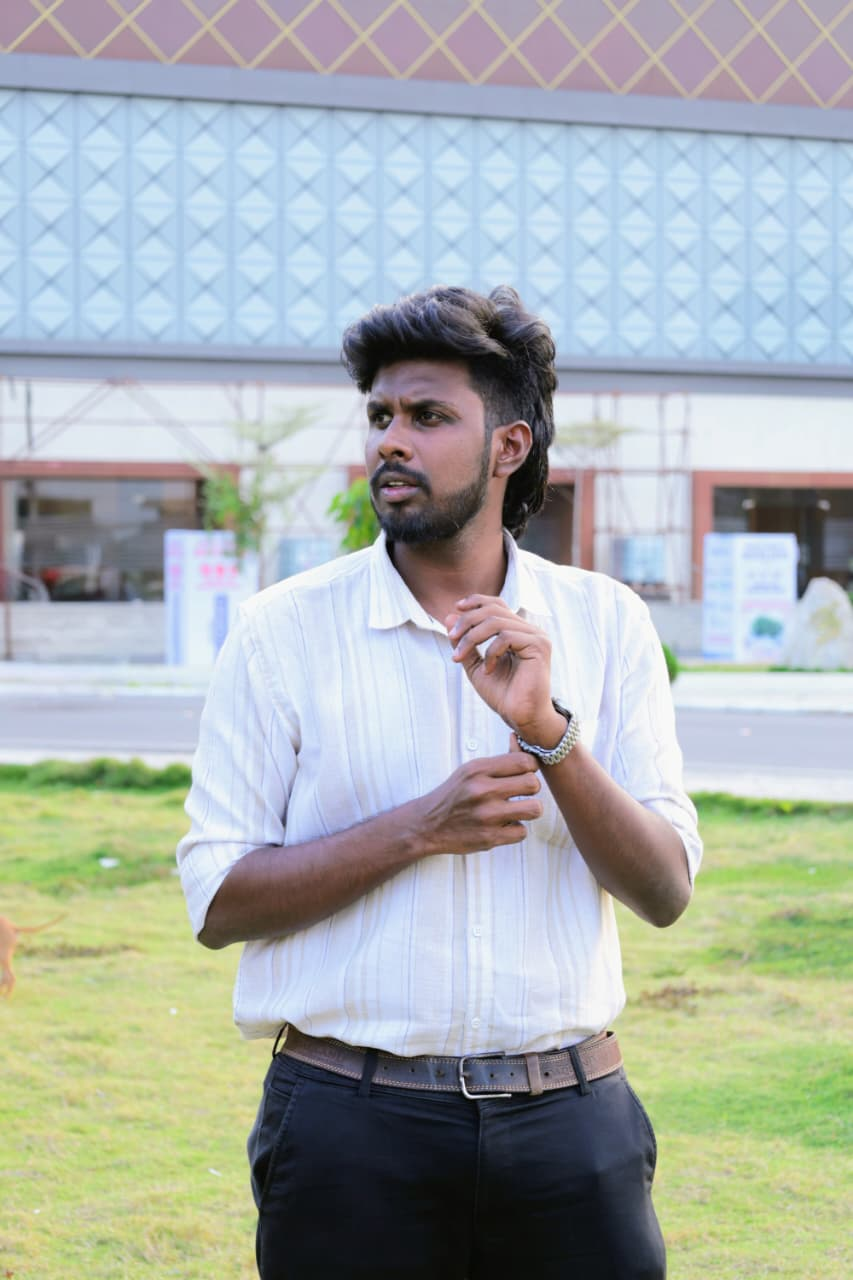
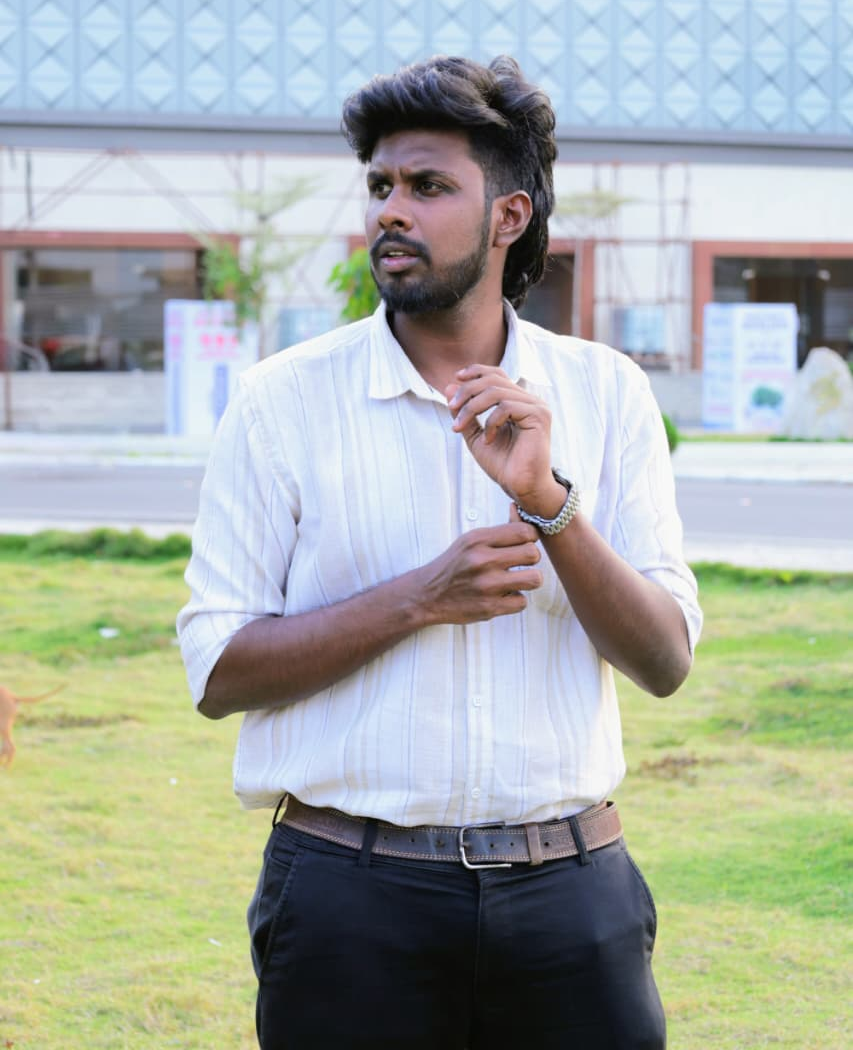
changes

diff --git a/pages/HomePage.jsx b/pages/HomePage.jsx
@@ -36,6 +36,16 @@ export default function HomePage() {
                 Instagram
               </a>
             </div>
+
+            <div className="contact-card reveal delay-1" style={{ marginTop: "1.5rem" }}>
+              <div className="contact-icon">⚡</div>
+              <div>
+                <div className="contact-label">Focus</div>
+                <div className="contact-value">
+                  Account handling, content creation, campaign planning, and storytelling execution.
+                </div>
+              </div>
+            </div>
           </div>
 
           <aside className="hero-right reveal delay-1 home-3d-zone">
@@ -129,7 +139,7 @@ export default function HomePage() {
 
       <div className="divider"></div>
 
-      <section id="experience">
+      {/* <section id="experience">
         <div className="container">
           <Mesh3D hueOffset={280} size="small" position="bottom-left" />
           <div className="section-head reveal">
@@ -165,8 +175,7 @@ export default function HomePage() {
             </article>
           </div>
         </div>
-      </section>
-
+      </section> */}
       <div className="divider"></div>
 
       <section id="skills">
@@ -252,6 +261,9 @@ export default function HomePage() {
 
           <div className="brand-grid">
             <article className="brand-card highlight reveal">
+              <div className="brand-logo-wrap">
+                <img src="/assets/brands/royal.png" alt="Royal Enfield logo" className="brand-logo" loading="lazy" decoding="async" />
+              </div>
               <h3>Royal Enfield</h3>
               <div className="chips">
                 <span className="chip">Account Handling</span>
@@ -261,6 +273,9 @@ export default function HomePage() {
             </article>
 
             <article className="brand-card reveal delay-1">
+              <div className="brand-logo-wrap">
+                <img src="/assets/brands/Madras Coffee House.png" alt="Madras Coffee House logo" className="brand-logo" loading="lazy" decoding="async" />
+              </div>
               <h3>Madras Coffee House</h3>
               <div className="chips">
                 <span className="chip">Account &amp; Client Management</span>
@@ -270,6 +285,9 @@ export default function HomePage() {
             </article>
 
             <article className="brand-card reveal delay-2">
+              <div className="brand-logo-wrap">
+                <img src="/assets/brands/gem.png" alt="Gem Hospital logo" className="brand-logo" loading="lazy" decoding="async" />
+              </div>
               <h3>Gem Hospital</h3>
               <div className="chips">
                 <span className="chip">Account &amp; Client Management</span>
@@ -279,6 +297,9 @@ export default function HomePage() {
             </article>
 
             <article className="brand-card reveal">
+              <div className="brand-logo-wrap">
+                <img src="/assets/brands/surya.png" alt="Sooriya Hospital logo" className="brand-logo" loading="lazy" decoding="async" />
+              </div>
               <h3>Sooriya Hospital</h3>
               <div className="chips">
                 <span className="chip">Content Planning</span>
@@ -287,6 +308,9 @@ export default function HomePage() {
             </article>
 
             <article className="brand-card reveal delay-1">
+              <div className="brand-logo-wrap">
+                <img src="/assets/brands/healing.png" alt="Healing Earth logo" className="brand-logo" loading="lazy" decoding="async" />
+              </div>
               <h3>Healing Earth</h3>
               <div className="chips">
                 <span className="chip">Account &amp; Client Management</span>
@@ -296,6 +320,9 @@ export default function HomePage() {
             </article>
 
             <article className="brand-card reveal delay-2">
+              <div className="brand-logo-wrap">
+                <img src="/assets/brands/kice.png" alt="KIC's Ice Cream logo" className="brand-logo" loading="lazy" decoding="async" />
+              </div>
               <h3>KIC&apos;s Ice Cream</h3>
               <div className="chips">
                 <span className="chip">Account &amp; Client Management</span>
@@ -303,6 +330,9 @@ export default function HomePage() {
             </article>
 
             <article className="brand-card reveal">
+              <div className="brand-logo-wrap">
+                <img src="/assets/brands/Hindustan College.png" alt="Hindustan College logo" className="brand-logo" loading="lazy" decoding="async" />
+              </div>
               <h3>Hindustan College, Padur</h3>
               <div className="chips">
                 <span className="chip">Account Handling</span>
@@ -312,6 +342,9 @@ export default function HomePage() {
             </article>
 
             <article className="brand-card reveal delay-1">
+              <div className="brand-logo-wrap">
+                <img src="/assets/brands/srihome.png" alt="SriHome logo" className="brand-logo" loading="lazy" decoding="async" />
+              </div>
               <h3>SriHome Homecare Consumables</h3>
               <div className="chips">
                 <span className="chip">Account Handling</span>
@@ -321,6 +354,9 @@ export default function HomePage() {
             </article>
 
             <article className="brand-card reveal delay-2">
+              <div className="brand-logo-wrap" style={{ fontSize: "1.6rem", fontWeight: "800", color: "var(--neon-blue)", opacity: 0.8 }}>
+                +
+              </div>
               <h3>More Brand Work</h3>
               <div className="chips">
                 <span className="chip">20+ Brands</span>
@@ -373,25 +409,37 @@ export default function HomePage() {
 
       <section id="approach">
         <div className="container">
-          <Mesh3D hueOffset={290} size="small" position="top-right" />
+          <Mesh3D hueOffset={280} size="small" position="bottom-left" />
           <div className="section-head reveal">
-            <div className="section-label">Approach</div>
+            <div className="section-label">Experience</div>
             <h2 className="section-title">
-              My Work <em>Approach.</em>
+              What I <em>do.</em>
             </h2>
+            <p className="section-copy">
+              Hands-on delivery across account handling, campaign planning, production coordination, and performance execution.
+            </p>
           </div>
-          <div className="approach-grid">
-            <article className="approach-card reveal">
-              <div className="approach-num">01 Understanding the Brand</div>
-              <p>I understand what the brand stands for, who it is for, and what it wants to achieve.</p>
+          <div className="stack-grid">
+            <article className="exp-card reveal">
+              <h3>Client Management</h3>
+              <p>Managed client communication, expectation setting, and day-to-day execution alignment across industries.</p>
+              <div style={{ marginTop: "0.7rem" }}>
+                <span className="tag">Account Handling</span>
+              </div>
             </article>
-            <article className="approach-card reveal delay-1">
-              <div className="approach-num">02 Planning</div>
-              <p>I create a plan based on the brand&apos;s goals and what it needs to grow.</p>
+            <article className="exp-card reveal delay-1">
+              <h3>Campaign Planning</h3>
+              <p>Built campaign structures from objective mapping to rollout, with clear milestone tracking and delivery ownership.</p>
+              <div style={{ marginTop: "0.7rem" }}>
+                <span className="tag">Planning</span>
+              </div>
             </article>
-            <article className="approach-card reveal delay-2">
-              <div className="approach-num">03 Execution</div>
-              <p>I put the plan into action and make sure everything runs smoothly.</p>
+            <article className="exp-card reveal delay-2">
+              <h3>Execution &amp; Optimization</h3>
+              <p>Executed campaign assets, ad workflows, and content pipelines while optimizing performance for better outcomes.</p>
+              <div style={{ marginTop: "0.7rem" }}>
+                <span className="tag">Execution</span>
+              </div>
             </article>
           </div>
         </div>
@@ -518,15 +566,13 @@ export default function HomePage() {
               </div>
             </a>
 
-            <div className="contact-card reveal delay-1">
-              <div className="contact-icon">⚡</div>
+            <a className="contact-card reveal delay-1" href="https://wa.me/918072048389" target="_blank" rel="noreferrer">
+              <div className="contact-icon">WA</div>
               <div>
-                <div className="contact-label">Focus</div>
-                <div className="contact-value">
-                  Account handling, content creation, campaign planning, and storytelling execution.
-                </div>
+                <div className="contact-label">WhatsApp</div>
+                <div className="contact-value">+91 80720 48389</div>
               </div>
-            </div>
+            </a>
           </div>
         </div>
       </section>

diff --git a/index.html b/index.html
@@ -960,6 +960,60 @@
       gap: 0.9rem;
     }
 
+    .brand-card {
+      padding: 1.2rem;
+      display: grid;
+      grid-template-columns: 72px 1fr;
+      grid-template-rows: auto auto;
+      column-gap: 1.2rem;
+      align-items: center;
+    }
+
+    .brand-card h3 {
+      grid-column: 2;
+      grid-row: 1;
+      margin: 0 0 0.4rem;
+      font-size: 1.1rem;
+      line-height: 1.2;
+      align-self: end;
+    }
+
+    .brand-card .chips {
+      grid-column: 2;
+      grid-row: 2;
+      align-self: start;
+    }
+
+    .brand-logo-wrap {
+      grid-column: 1;
+      grid-row: 1 / span 2;
+      width: 72px;
+      height: 72px;
+      display: flex;
+      align-items: center;
+      justify-content: center;
+      background: rgba(255, 255, 255, 0.04);
+      border-radius: 12px;
+      overflow: hidden;
+      border: 1px solid rgba(255, 255, 255, 0.08);
+      flex-shrink: 0;
+    }
+
+    .brand-logo {
+      max-width: 100%;
+      max-height: 56px;
+      width: auto;
+      height: auto;
+      object-fit: contain;
+      filter: brightness(1.1) drop-shadow(0 0 6px rgba(130, 170, 255, 0.25));
+      transition: transform 0.3s ease, filter 0.3s ease;
+    }
+
+    .brand-card:hover .brand-logo {
+      transform: scale(1.06);
+      filter: brightness(1.2) drop-shadow(0 0 10px rgba(130, 170, 255, 0.4));
+    }
+
     .exp-card,
     .edu-card,
     .strength-card,
